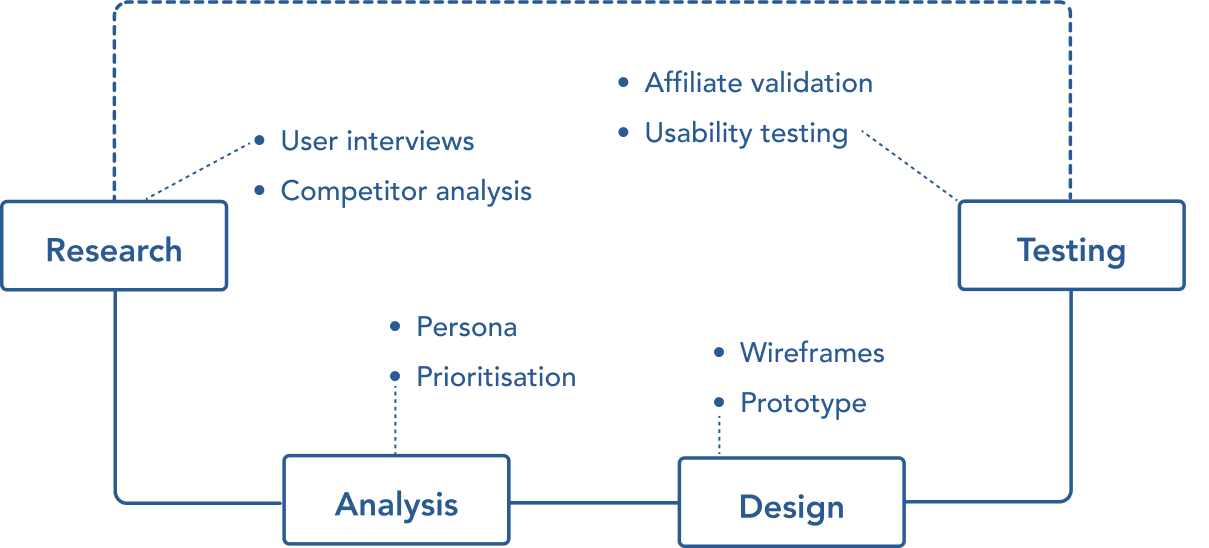
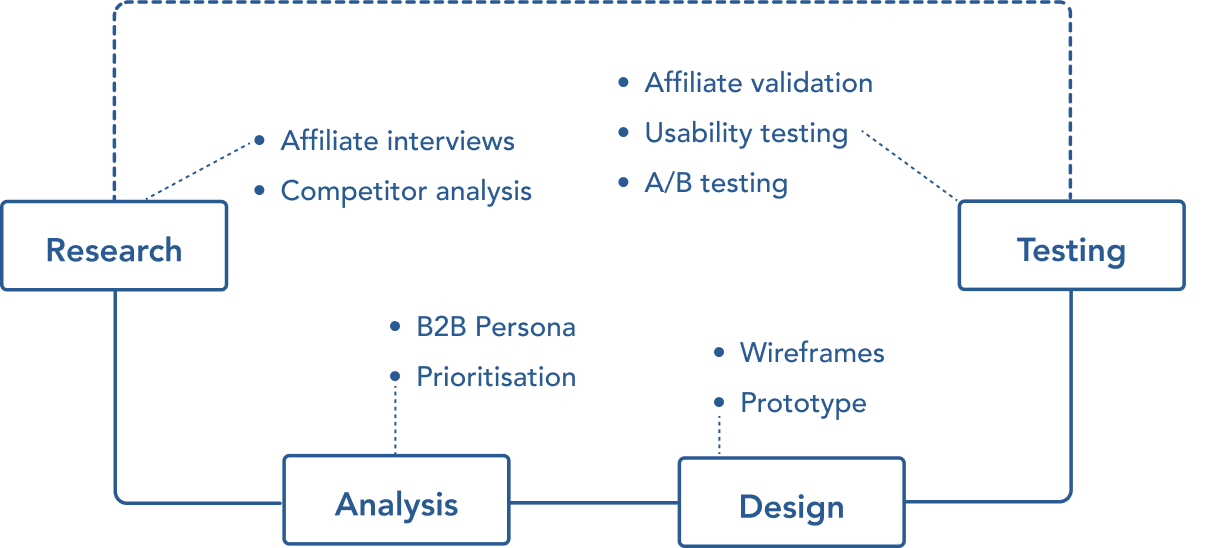
testimonial updates

Changed region(s): [[0.4897, 0.3102, 0.6733, 0.3723], [0.2142, 0.2172, 0.4285, 0.2792], [0.3366, 0.5584, 0.4897, 0.6204]]

diff --git a/white_labels.html b/white_labels.html
@@ -69,7 +69,7 @@
                     <br>
                     <strong>Business goal:</strong> Increase affiliates retention and attract new businesses to join our affiliate program by modernising outdated solutions.<br>
                     <br>
-                    <strong>My approach:</strong> By understanding what's important for our travel affiliates, I created a scalable multi-brand framework with a modern UI.<br><br>
+                    <strong>My approach:</strong> Learn what's important for our affiliates so that I could ideate a scalable multi-brand platform + a series of A/B tests to optimise it.<br><br>
                     <strong>Success metrics:</strong> 
                     The solution attracted big brands like <strong>Jet2</strong> and <strong>Ryanair</strong> which generated a total of<strong> 370k bookings</strong> between 2019-2020 (pre-covid).</li> 
 
